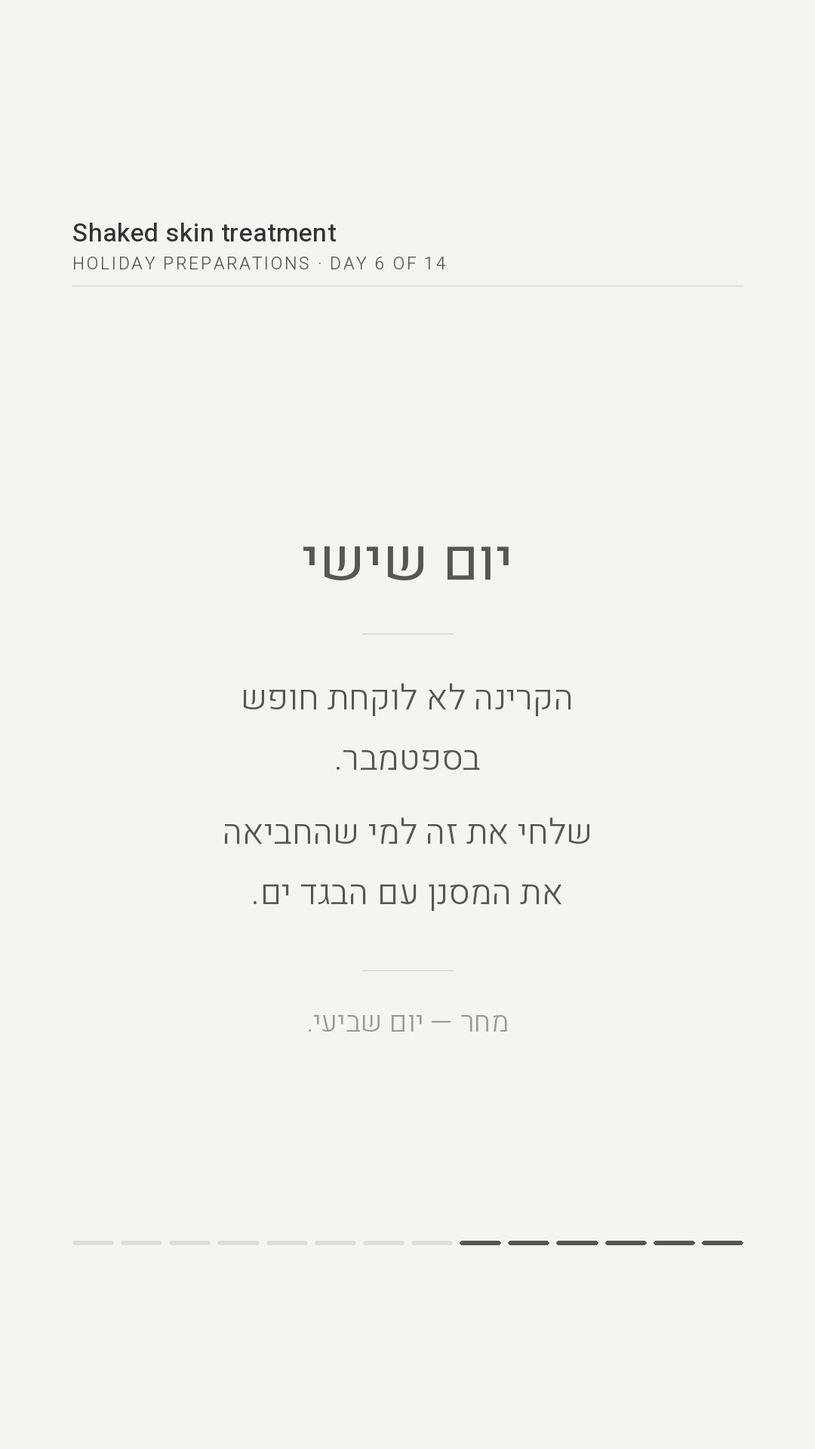
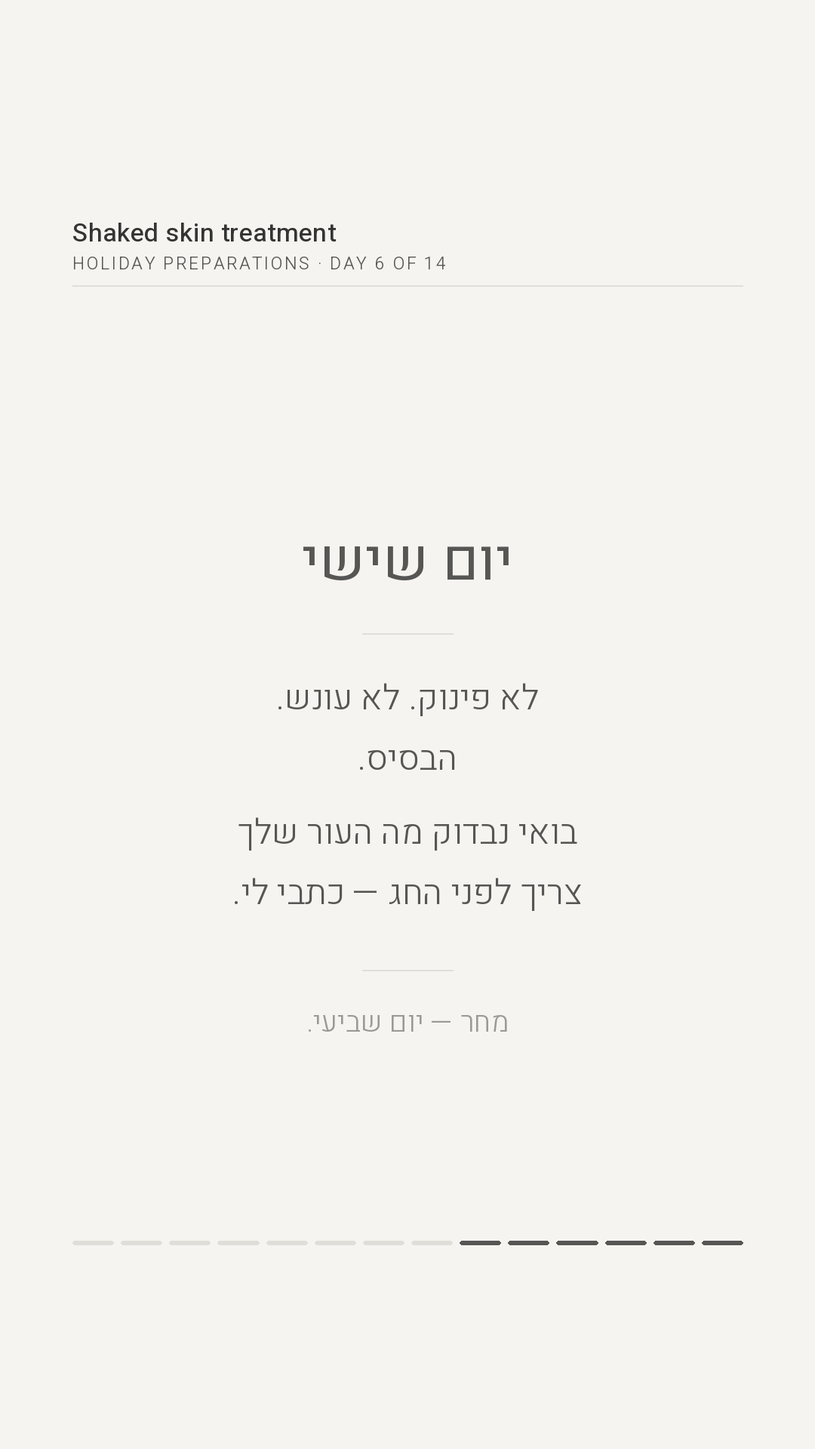
Shaked day 6 — deep clean, replacing a duplicate SPF unit
Romy called the SPF version lame and she was right: 06_DRAFTS already
holds a full six-frame sunscreen sequence from 27.08 (DAHTfXiCdTs) with
the same "even in clouds" line and the same poll. I never searched the
drafts folder before picking a topic — it isn't listed in the series arc
table, so a topic already covered there looks free.

Beyond the duplication, generic education is the weakest thing this
account can post: "wear sunscreen" competes with ten thousand accounts.
At 95 followers a unit has to be something only Shaked can say.

Day 6 is now the deep clean — her entry treatment, and her own unused
positioning line from DAHTtayM4q0 p5: not pampering, not punishment,
proper blackhead extraction is the base that devices, acids and courses
are built on. The poll offers both wrong answers (pampering / punishment)
so frame 3 lands as an answer rather than a continuation. Frame 4 is a
ladder toward the Dermapen, not a dismissal of it — the opposite of the
version rejected for contradicting it. Six days out from the holiday,
this is also the unit that puts a new client in the chair rather than
teaching another lesson.

No price, no protocol detail, and the CTA is verbatim one of the approved
routes in TREATMENTS.md. Day 5's topic folds into this unit.

Wrote the search-the-drafts-folder rule into the brand brief.

Claude-Session: https://claude.ai/code/session_016gUZM1pTKD3wfdojgBe34A

Changed region(s): [[0.275, 0.5625, 0.7333, 0.625], [0.3056, 0.4688, 0.7028, 0.5312]]

diff --git a/content/SHAKED_SKIN/03_MEDIA/build/stories.py b/content/SHAKED_SKIN/03_MEDIA/build/stories.py
@@ -271,67 +271,70 @@ DAYS[4] = {
     ("b", "שמרי. מחר — יום חמישי.", NOTE, MUTE)],
 }
 
-# Day 6 — SPF in September, carried by a poll.
+# Day 6 — the deep clean: not pampering, not punishment. Poll-driven.
 #
-# Two earlier versions were rejected and both rejections are load-bearing:
-#   1. A question box. The account has ~95 followers; a box that comes back
-#      with two answers reads as ignored, and the closing frame promised
-#      answers the next day. A poll cannot look ignored.
-#   2. The strong-peel myth ("redness means the barrier was damaged, not that
-#      it worked"). That claim collides head-on with the Dermapen, which
-#      works by controlled micro-injury and leaves the skin red — a client
-#      would read her own normal post-treatment redness as damage. The line
-#      is Shaked's own, but it cannot stand without the controlled-vs-
-#      uncontrolled distinction, and that requires detailing microneedling,
-#      which is blocked until the contraindication list exists.
+# Three earlier versions were rejected. All three rejections are load-bearing:
+#   1. A question box. ~95 followers; a box that returns two answers reads as
+#      ignored, and the closing frame promised answers the next day.
+#   2. The strong-peel myth (redness = damaged barrier). Collides head-on with
+#      the Dermapen, which works by controlled micro-injury and leaves the
+#      skin red. Blocked until the contraindication list allows drawing the
+#      controlled-injury vs damage distinction.
+#   3. SPF in September. A near-duplicate of an existing unit —
+#      06_DRAFTS/SHAKED_2026-08-27_stories_sunscreen-daily.md, six frames,
+#      same "גם בעננים" line, same poll. Generic education is the weakest
+#      thing a 95-follower account can post; it competes with everyone.
 #
-# SPF has no such collision: it protects the result of a treatment rather
-# than casting doubt on it.
+# ALWAYS grep 06_DRAFTS and the whole client folder for the topic before
+# choosing one. That check is what would have caught version 3.
+#
+# This version is her entry treatment and her own positioning line, unused
+# until now (DAHTtayM4q0 p5), and it argues against the device-and-acid hype
+# that fills the category — which is something only she can say.
 #
 # Frame 2 is deliberately empty below the copy — that is where the poll
 # sticker goes. It is a native IG sticker, not an element.
 # No quotation marks anywhere: a leading straight quote on a Hebrew line
 # renders on the wrong side, same family as the digits rule.
 DAYS[6] = {
-1: [("h", "ספטמבר.",              HEAD_C, INK, 1.2),
-    ("h", "והשמש עוד לא סיימה.", HEAD_C, INK, 1.2)],
+1: [("h", "לפני המכשירים.", HEAD_C, INK, 1.2),
+    ("h", "לפני החומצות.",  HEAD_C, INK, 1.2)],
 
 2: [("h", "השאלה", HEAD_I, INK, 0.4),
     ("gap", 34),
     ("rule", 34, 120),
     ("gap", 30),
-    ("b", "עכשיו כשהקיץ נגמר —", BODY, INK),
-    ("b", "את עדיין מורחת מסנן", BODY, INK),
-    ("b", "כל בוקר?", BODY, INK)],
+    ("b", "ניקוי עור בשבילך —", BODY, INK),
+    ("b", "פינוק או עונש?", BODY, INK)],
 
-3: [("h", "הקרינה", HEAD_I, INK, 0.4),
+3: [("h", "התשובה", HEAD_I, INK, 0.4),
     ("gap", 34),
     ("rule", 34, 120),
     ("gap", 30),
-    ("b", "לא נעלמת עם סוף אוגוסט.", BODY, INK),
+    ("b", "לא פינוק.", BODY, INK),
+    ("b", "ולא עונש.", BODY, INK),
     ("gap", 18),
-    ("b", "גם בספטמבר.", BODY, INK),
-    ("b", "גם בעננים.", BODY, INK)],
+    ("b", "זו עבודה.", BODY, INK)],
 
-4: [("h", "למה עכשיו", HEAD_I, INK, 0.4),
+4: [("h", "למה קודם", HEAD_I, INK, 0.4),
     ("gap", 34),
     ("rule", 34, 120),
     ("gap", 30),
-    ("b", "כל מה שאת עושה לעור", BODY, INK),
-    ("b", "לקראת החג נמדד בחודשים.", BODY, INK),
+    ("b", "הוצאת שחורים נכונה", BODY, INK),
+    ("b", "היא הבסיס.", BODY, INK),
     ("gap", 18),
-    ("b", "מסנן הוא מה שמונע", BODY, INK),
-    ("b", "מהעבודה הזאת להימחק.", BODY, INK)],
+    ("b", "עליה נבנה כל השאר —", BODY, INK),
+    ("b", "מכשירים, חומצות, סדרות.", BODY, INK)],
 
 5: [("h", "יום שישי", HEAD_I, INK, 0.4),
     ("gap", 34),
     ("rule", 34, 120),
     ("gap", 30),
-    ("b", "הקרינה לא לוקחת חופש",      SUM, INK),
-    ("b", "בספטמבר.",                  SUM, INK),
+    ("b", "לא פינוק. לא עונש.",        SUM, INK),
+    ("b", "הבסיס.",                     SUM, INK),
     ("gap", 18),
-    ("b", "שלחי את זה למי שהחביאה",   SUM, INK),
-    ("b", "את המסנן עם הבגד ים.",     SUM, INK),
+    ("b", "בואי נבדוק מה העור שלך",    SUM, INK),
+    ("b", "צריך לפני החג — כתבי לי.",  SUM, INK),
     ("gap", 44),
     ("rule", 34, 120),
     ("gap", 20),

diff --git a/content/SHAKED_SKIN/05_CALENDAR/SERIES_מתכוננים-לחגים-14-יום.md b/content/SHAKED_SKIN/05_CALENDAR/SERIES_מתכוננים-לחגים-14-יום.md
@@ -117,57 +117,64 @@ HOLIDAY PREPARATIONS · DAY 1 OF 14
 **אין כאן מספר טיפולים ואין הבטחת תוצאה** — הפריימים מדברים על טווחי זמן ביולוגיים
 בלבד, לא על מה שטיפול מסוים ישיג.
 
-## יום 6 — מסנן בספטמבר ✅ בנוי
+## יום 6 — ניקוי עור: לא פינוק ולא עונש ✅ בנוי
 
 **Canva:** https://www.canva.com/design/DAHUaeozTMw/edit — `DAHUaeozTMw` · 5 עמודים · 1080×1920
 **קבצים מקומיים:** `content/SHAKED_SKIN/03_MEDIA/DAY06/shaked-day06-01..05.png`
 
 | פריים | תוכן |
 |---|---|
-| 1 | ספטמבר. והשמש עוד לא סיימה. |
-| 2 | **השאלה** — עכשיו כשהקיץ נגמר, את עדיין מורחת מסנן כל בוקר? ← **סקר** |
-| 3 | **הקרינה** — לא נעלמת עם סוף אוגוסט. גם בספטמבר. גם בעננים. |
-| 4 | **למה עכשיו** — כל מה שאת עושה לעור לקראת החג נמדד בחודשים. מסנן הוא מה שמונע מהעבודה הזאת להימחק. |
-| 5 | **יום שישי** — הקרינה לא לוקחת חופש בספטמבר. + שלחי את זה למי שהחביאה את המסנן עם הבגד ים. |
+| 1 | לפני המכשירים. לפני החומצות. |
+| 2 | **השאלה** — ניקוי עור בשבילך: פינוק או עונש? ← **סקר** |
+| 3 | **התשובה** — לא פינוק. ולא עונש. זו עבודה. |
+| 4 | **למה קודם** — הוצאת שחורים נכונה היא הבסיס. עליה נבנה כל השאר — מכשירים, חומצות, סדרות. |
+| 5 | **יום שישי** — לא פינוק. לא עונש. הבסיס. + בואי נבדוק מה העור שלך צריך לפני החג — כתבי לי. |
 
 **בהעלאה — פריים 2:** מניחים **סקר** בחצי התחתון, שנשאר ריק בדיוק בשביל זה.
-שתי האפשרויות: **כן · פחות**. "פחות" ולא "לא" — כדי שאף אחת לא תצטרך להודות
-בפומבי שהפסיקה לגמרי.
+שתי האפשרויות: **פינוק · עונש**. שתיהן "לא נכונות" — וזה בדיוק מה שהופך את פריים 3
+לתשובה ולא להמשך.
 
-### שתי גרסאות קודמות נדחו — ושתי הדחיות שוות תיעוד
+### שלוש גרסאות קודמות נדחו
 
-**גרסה 1 — תיבת שאלות.** נדחתה כי **לחשבון כ-95 עוקבות**. תיבה בגודל כזה חוזרת עם
-שתיים־שלוש שאלות, נראית כאילו התעלמו ממנה, והפריים האחרון הבטיח "מחר אני עונה על
-הכול" — הבטחה שנשברת בפומבי מול מי שכן כתבה. **סקר לא יכול להיראות מתעלמים ממנו.**
+| גרסה | למה נדחתה |
+|---|---|
+| תיבת שאלות | **כ-95 עוקבות.** תיבה בגודל כזה חוזרת עם שתיים־שלוש שאלות ונראית כאילו התעלמו ממנה, ופריים 5 הבטיח "מחר אני עונה על הכול" — הבטחה שנשברת בפומבי. |
+| מיתוס הפילינג החזק | **סותר את הדרמה-פן**, שעובד ביצירת מיקרו-תעלות מבוקרות ומשאיר אדמומיות צפויה. חסום עד שתיכתב רשימת ההתוויות נגד. |
+| מסנן בספטמבר | **כפילות.** יש כבר רצף שלם של שישה פריימים על קרם הגנה — `06_DRAFTS/SHAKED_2026-08-27_stories_sunscreen-daily.md` (`DAHTfXiCdTs`) — עם אותה שורה ("גם בעננים") ואותו סקר. |
 
-**גרסה 2 — מיתוס הפילינג החזק.** נדחתה כי היא **סותרת את הדרמה-פן**. הפריים אמר
-"עור אדום וקלוף... זה סימן שמחסום העור נפגע", והדרמה-פן עובד ביצירת מיקרו-תעלות
-מבוקרות שמשאירות אדמומיות צפויה. לקוחה שקוראת את הפריים ויוצאת אדומה מהטיפול
-מבינה שנפגעה. הטענה עצמה מהחומר של שקד (`DAHTtayM4q0` עמוד 4) ואיננה שגויה — אבל
-היא לא יכולה לעמוד בלי ההבחנה בין **פציעה מבוקרת** לבין **נזק**, וההבחנה הזאת
-מחייבת לפרט מיקרונידלינג. זה חסום עד שתיכתב רשימת ההתוויות נגד.
+**הכלל שנגזר מהשלישית:** לפני שבוחרים נושא ליחידה — **לחפש אותו בכל תיקיית הלקוח,
+ובמיוחד ב-`06_DRAFTS/`.** תיקיית הטיוטות אינה מופיעה בטבלת הקשת של הסדרה, ולכן
+נושא שכבר טופל שם נראה פנוי. זו בדיוק הטעות שקרתה כאן.
 
-**הכלל שנגזר מזה נרשם ב-`00_BRAND/BRAND_BRIEF.md` סעיף 7.**
+### למה הנושא הזה כן
 
-### למה מסנן קרינה הוא הנושא הנכון להחלפה
+**זה טיפול הכניסה שלה** (`TREATMENTS.md` #1) והמשפט הוא שלה — `DAHTtayM4q0` עמוד 5,
+לא נוצל עד עכשיו. שישה ימים לפני החג, היחידה שצריכה לרוץ היא זו שמכניסה לקוחה חדשה
+לכיסא, לא עוד שיעור.
 
-**אין לו התנגשות — הוא הפוך.** תוכן על מסנן **שומר על תוצאת הטיפול** במקום להטיל
-ספק בסימנים שלו. פריים 4 אומר את זה מפורשות: מה שנעשה לקראת החג נמדד בחודשים,
-ומסנן הוא מה שמונע מהעבודה להימחק. זה מחזק את הטיפולים, לא מחליף אותם.
+**וזה משהו שרק היא יכולה להגיד.** תוכן חינוכי גנרי ("מרחי מסנן") מתחרה בעשרת אלפים
+חשבונות; עמדה מקצועית שסותרת את ההייפ של המכשירים והחומצות מתחרה בכמעט אף אחד. זה
+הבידול שהבריף מגדיר.
 
-**והוא לא חוזר על יום 3.** יום 3 אמר **איפה** מסנן יושב בשגרה (אחרון, אחרי הלחות).
-יום 6 שואל **אם בכלל** עדיין מורחים אותו עכשיו. שאלה אחרת לגמרי, ועונתית — זה
-בדיוק השבוע שבו מפסיקים.
+**פריים 4 הוא סולם, לא ביטול.** "עליה נבנה כל השאר — מכשירים, חומצות, סדרות" מוביל
+אל הדרמה-פן כשלב הבא, ולא מוריד ממנו. ההפך מהגרסה שנדחתה.
 
-### הבסיס העובדתי
+**ולא חוזר על יום 3.** יום 3 עסק ב**ניקוי בבית** כשלב בשגרה. כאן מדובר ב**טיפול
+בקליניקה**. אותה מילה, שני דברים שונים.
 
-פריים 3 הוא מילה במילה מהחומר של שקד — `DAHTtayM4q0` עמוד 8. אין שם טיפול, מחיר
-או הבטחת תוצאה.
+### הבסיס העובדתי והמגבלות
 
-### מה זה עשה ליום 7
+פריימים 3 ו-4 מבוססים על `DAHTtayM4q0` עמוד 5 — "לא פינוק ולא עונש. הוצאת שחורים
+נכונה היא הבסיס — לפני שמדברים על מכשירים, חומצות או סדרות."
 
-יום 7 היה "התשובות" — הוא היה תלוי לגמרי בתיבת השאלות שנדחתה. **הוא נמחק כיחידה.**
-הפריים האחרון אומר רק "מחר — יום שביעי", בלי להבטיח תשובות.
+אין מחיר, אין טווח, אין רמז. ה-CTA הוא בדיוק אחד מהמאושרים ב-`TREATMENTS.md`:
+"בואי נבדוק מה העור שלך צריך". **אין כאן פירוט פרוטוקול הטיפול** — רק העמדה
+המקצועית — ולכן זה לא נופל תחת החסם של רשימת ההתוויות נגד.
+
+### מה זה עשה לימים 5 ו-7
+
+**יום 5** היה "ניקוי עור" — הנושא שלו עבר לכאן. **יום 7** היה "התשובות" ונמחק, כי
+היה תלוי בתיבת השאלות שנדחתה.
 
 ## הפקת הקבצים — `03_MEDIA/build/stories.py`
 
@@ -204,8 +211,8 @@ cd content/SHAKED_SKIN/03_MEDIA/build && python3 stories.py
 | 2 | 31.8 | מה באמת אפשר לשנות בארבעה עשר יום — ומה לא | ✅ בנוי |
 | 3 | 1.9 | הסדר הנכון — באיזה סדר מורחים | ✅ בנוי |
 | 4 | 2.9 | כמה זמן באמת לוקח — ציר הזמן | ✅ בנוי |
-| 5 | — | ניקוי עור: מה זה כן ומה זה לא | ⏭ דולג |
-| 6 | 6.9 | מסנן בספטמבר — סקר | ✅ בנוי |
+| 5 | — | ניקוי עור: מה זה כן ומה זה לא | ⏭ הנושא עבר ליום 6 |
+| 6 | 6.9 | ניקוי עור — לא פינוק ולא עונש · סקר | ✅ בנוי |
 | 7 | — | התשובות | ❌ נמחק — היה תלוי בתיבת השאלות |
 | 8+9 | 7.9 | שגרת בוקר וערב — מאוחד | לכתוב |
 | 10 | 8.9 | מה **לא** לעשות בשבוע שלפני אירוע | `דורש עובדות ממך` |
@@ -231,7 +238,7 @@ cd content/SHAKED_SKIN/03_MEDIA/build && python3 stories.py
 
 | תאריך | יחידה |
 |---|---|
-| 6.9 | יום 6 — מסנן בספטמבר ✅ מוכן |
+| 6.9 | יום 6 — ניקוי עור ✅ מוכן |
 | 7.9 | **8+9 מאוחדים** — שגרת בוקר וערב |
 | 8.9 | יום 10 — מה לא לעשות בשבוע שלפני אירוע |
 | 9.9 | יום 11 — איפור על עור מטופל |

diff --git a/content/SHAKED_SKIN/05_CALENDAR/CANVA_ARCHIVE.md b/content/SHAKED_SKIN/05_CALENDAR/CANVA_ARCHIVE.md
@@ -103,19 +103,18 @@ https://www.canva.com/design/DAHTtayM4q0/edit
 
 | עמוד | תוכן |
 |---|---|
-| 1 | ספטמבר. · והשמש עוד לא סיימה. |
-| 2 | **השאלה** · עכשיו כשהקיץ נגמר — · את עדיין מורחת מסנן · כל בוקר? |
-| 3 | **הקרינה** · לא נעלמת עם סוף אוגוסט. · גם בספטמבר. · גם בעננים. |
-| 4 | **למה עכשיו** · כל מה שאת עושה לעור · לקראת החג נמדד בחודשים. · מסנן הוא מה שמונע · מהעבודה הזאת להימחק. |
-| 5 | **יום שישי** · הקרינה לא לוקחת חופש · בספטמבר. · שלחי את זה למי שהחביאה · את המסנן עם הבגד ים. · מחר — יום שביעי. |
+| 1 | לפני המכשירים. · לפני החומצות. |
+| 2 | **השאלה** · ניקוי עור בשבילך — · פינוק או עונש? |
+| 3 | **התשובה** · לא פינוק. · ולא עונש. · זו עבודה. |
+| 4 | **למה קודם** · הוצאת שחורים נכונה · היא הבסיס. · עליה נבנה כל השאר — · מכשירים, חומצות, סדרות. |
+| 5 | **יום שישי** · לא פינוק. לא עונש. · הבסיס. · בואי נבדוק מה העור שלך · צריך לפני החג — כתבי לי. · מחר — יום שביעי. |
 
-**עמוד 2 ריק בחצי התחתון בכוונה** — שם מונח **הסקר** (כן · פחות). סטיקר נייטיב,
+**עמוד 2 ריק בחצי התחתון בכוונה** — שם מונח **הסקר** (פינוק · עונש). סטיקר נייטיב,
 לא אלמנט, ולכן לא יכול לשבת בקובץ.
 
-#### שתי גרסאות קודמות של יום 6 — נדחו, לא פורסמו
+#### שלוש גרסאות קודמות של יום 6 — נדחו, לא פורסמו
 
-**גרסה 1 — תיבת שאלות.** נדחתה: כ-95 עוקבות, ותיבה שחוזרת עם שתי שאלות נראית
-כאילו התעלמו ממנה. הקופי שמור למקרה שהתיבה תחזור:
+**גרסה 1 — תיבת שאלות.** נדחתה: כ-95 עוקבות. שמור למקרה שהתיבה תחזור:
 
 > **1** היום אני לא מלמדת. · היום אני שואלת.
 > **2 למה היום** · החג מתקרב, וכל אחת מחליטה עכשיו מה היא עושה עם העור. · עדיף להחליט עם תשובה.
@@ -123,15 +122,18 @@ https://www.canva.com/design/DAHTtayM4q0/edit
 > **4 השאלה** · מה הכי מטריד אותך בעור עכשיו? · חוץ ממני אף אחד לא רואה מי שאלה.
 > **5 יום שישי** · היום אין כלל. יש שאלה. · כתבי לי בתיבה. · מחר — יום שביעי, אני עונה על הכול.
 
-**גרסה 2 — מיתוס הפילינג החזק.** נדחתה: **סותרת את הדרמה-פן**, שעובד ביצירת
-מיקרו-תעלות מבוקרות ומשאיר אדמומיות צפויה. **אין לשחזר את הקופי הזה** לפני שתיכתב
-רשימת ההתוויות נגד ותתאפשר ההבחנה בין פציעה מבוקרת לנזק:
+**גרסה 2 — מיתוס הפילינג החזק.** נדחתה: **סותרת את הדרמה-פן**. **אין לשחזר** לפני
+שתיכתב רשימת ההתוויות נגד:
 
 > **1** יש טיפול שמרגישים. · ויש טיפול שרואים.
 > **2 השאלה** · מה שווה לך יותר — להרגיש שקרה משהו, או לראות שקרה משהו?
 > **3 המיתוס** · ככל שהפילינג חזק יותר, כך התוצאה טובה יותר. · זה לא נכון.
 > **4 למה** · עור אדום וקלוף הוא לא סימן שזה עבד. · זה סימן שמחסום העור נפגע — והוא זה שאחראי על הזוהר.
 > **5 יום שישי** · עוצמה היא לא תוצאה. · אדמומיות היא נזק, לא הוכחה. · שלחי את זה למי שמתכננת פילינג לפני החג.
+
+**גרסה 3 — מסנן בספטמבר.** נדחתה: **כפילות** של הרצף הקיים `DAHTfXiCdTs`
+(`06_DRAFTS/SHAKED_2026-08-27_stories_sunscreen-daily.md`), כולל אותה שורה ואותו
+סקר. אין טעם לשמור — הגרסה המלאה והטובה יותר כבר בטיוטה ההיא.
 
 ### חומר גלם לימים 4–7 — `DAHTtayM4q0`
 

diff --git a/content/SHAKED_SKIN/00_BRAND/BRAND_BRIEF.md b/content/SHAKED_SKIN/00_BRAND/BRAND_BRIEF.md
@@ -97,6 +97,8 @@
 ## 7. מגבלות משפטיות ואתיות
 
 - הצהרות אסורות: אבחון או הנחיה רפואית; הבטחת ריפוי או תוצאה; טענה שמוצר/טיפול מתאים לכולן; טענות בריאותיות ללא מקור; הצגת תוצאה חריגה כאופיינית; השוואת לפני/אחרי בתנאי צילום שונים או לאחר ריטוש מטעה.
+- **לפני שבוחרים נושא ליחידה — לחפש אותו בכל תיקיית הלקוח, ובמיוחד ב-`06_DRAFTS/`.** קרה ב-06.09.2026: יום 6 של סדרת החגים נבנה על קרם הגנה, בזמן שקיים כבר רצף שלם של שישה פריימים על אותו נושא מ-27.08 — עם אותה שורה ואותו סקר. **תיקיית הטיוטות אינה מופיעה בטבלת הקשת של הסדרה**, ולכן נושא שכבר טופל שם נראה פנוי.
+  - **וזה לא רק כפילות — זה גם חולשה.** תוכן חינוכי גנרי ("מרחי מסנן") מתחרה בעשרת אלפים חשבונות. בחשבון של 95 עוקבות היחידה חייבת להיות משהו **שרק שקד יכולה להגיד**: עמדה מקצועית, סדר עדיפויות, מה היא מסרבת לעשות.
 - **אין לפרסם תוכן שסותר טיפול שנמצא בתפריט — גם אם הטענה נכונה כשלעצמה.** התגלה ביום 6 של סדרת החגים (06.09.2026): פריים אמר "עור אדום וקלוף... זה סימן שמחסום העור נפגע". הטענה מהחומר של שקד עצמה, אבל **הדרמה-פן עובד ביצירת מיקרו-תעלות מבוקרות, ואדמומיות אחריו צפויה** — לקוחה שקראה את הפריים ויצאה אדומה הייתה מבינה שנפגעה. לפני כל טענה על "מה זה סימן ש...", לבדוק מול `01_OFFERS/TREATMENTS.md` שאף טיפול בתפריט לא נראה בדיוק ככה.
   - **ההבחנה שמצילה את הטענה — פציעה מבוקרת מול נזק — חסומה**, כי היא מחייבת לפרט מיקרונידלינג, וזה אסור עד שתיכתב רשימת ההתוויות נגד. עד אז הטענה כולה יורדת מהתוכן.
   - **בטוח יותר:** תוכן ששומר על תוצאת הטיפול (מסנן קרינה, שגרה, תזמון) במקום תוכן שמטיל ספק בסימנים של טיפול.
